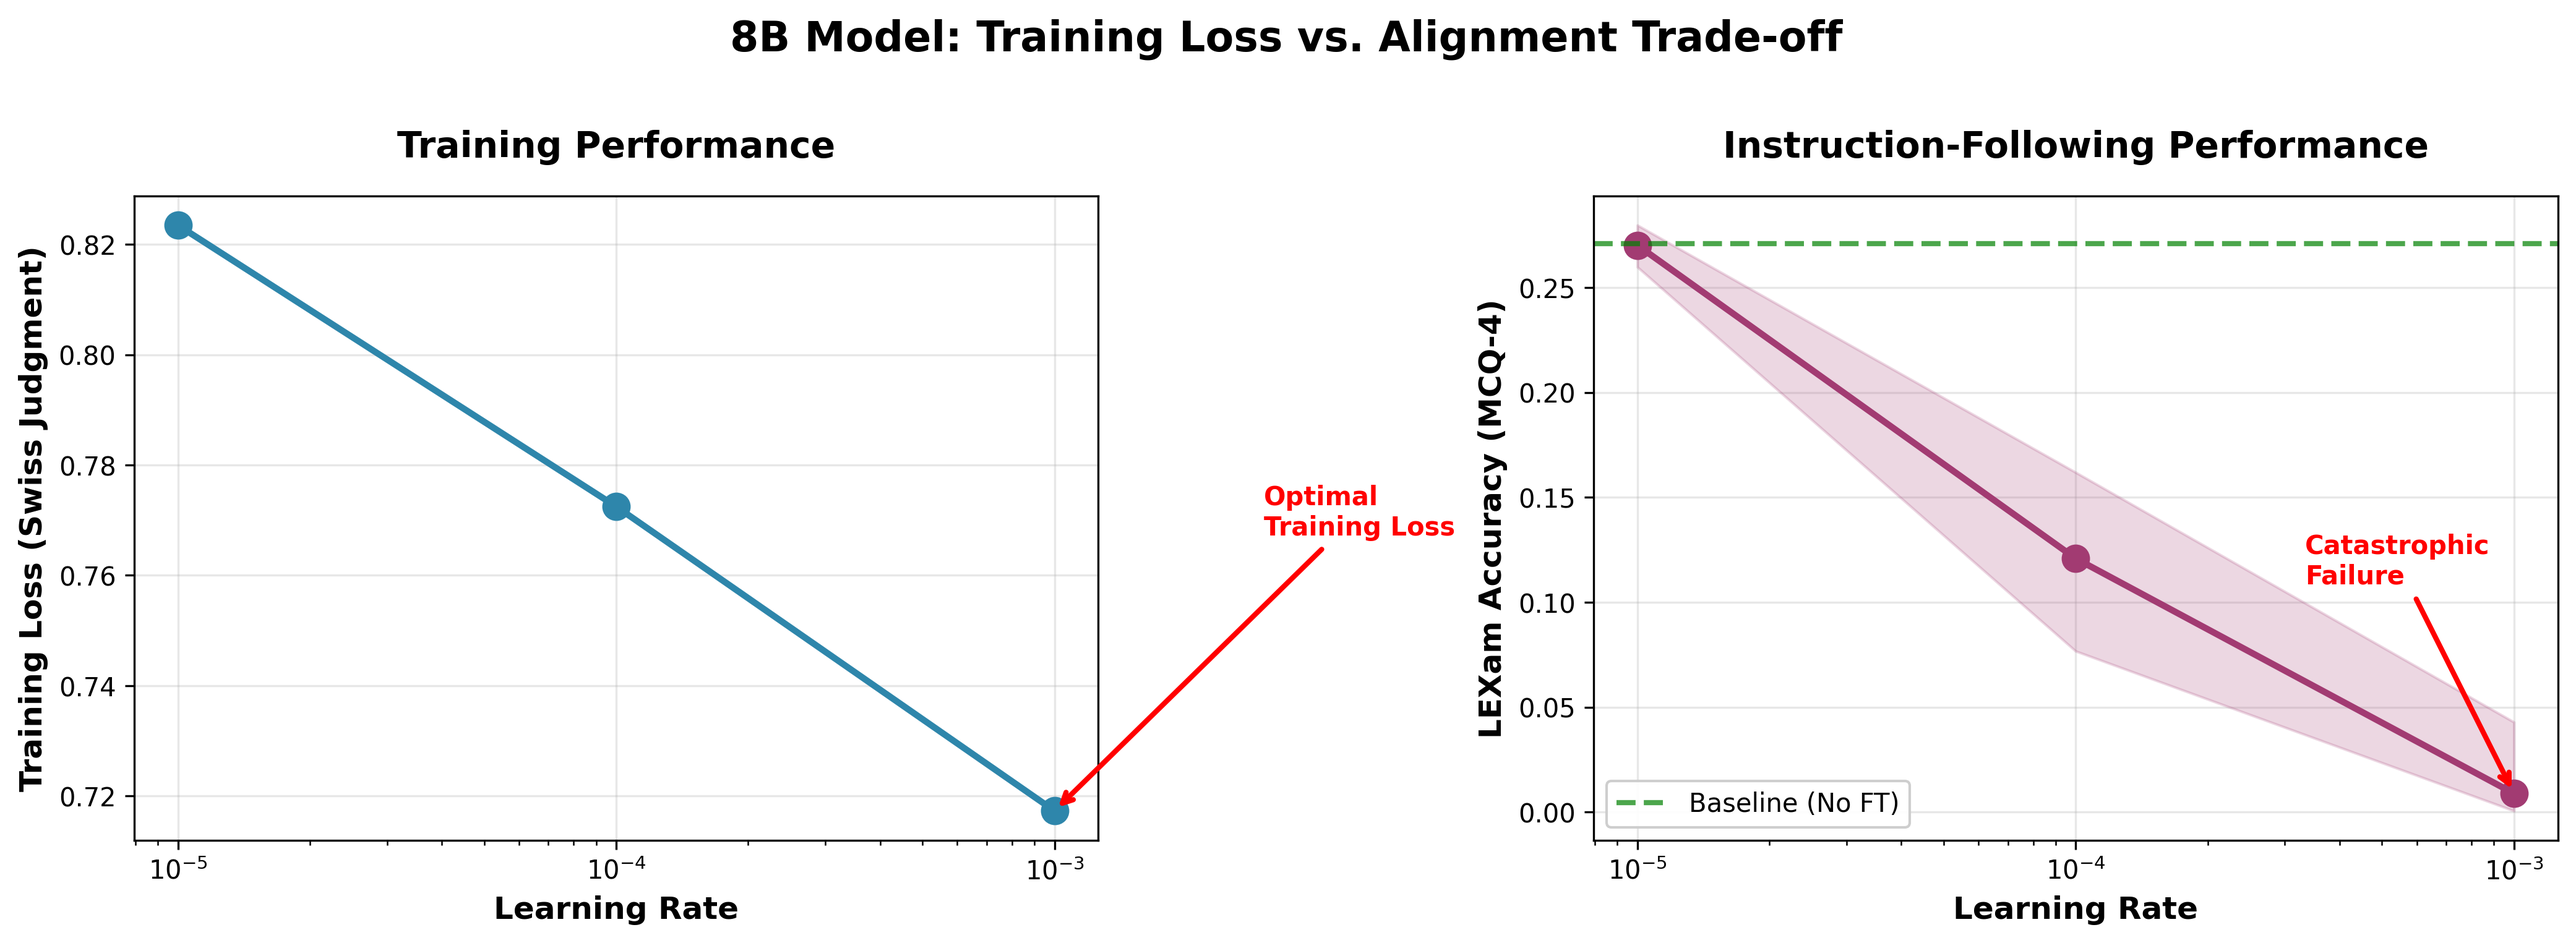
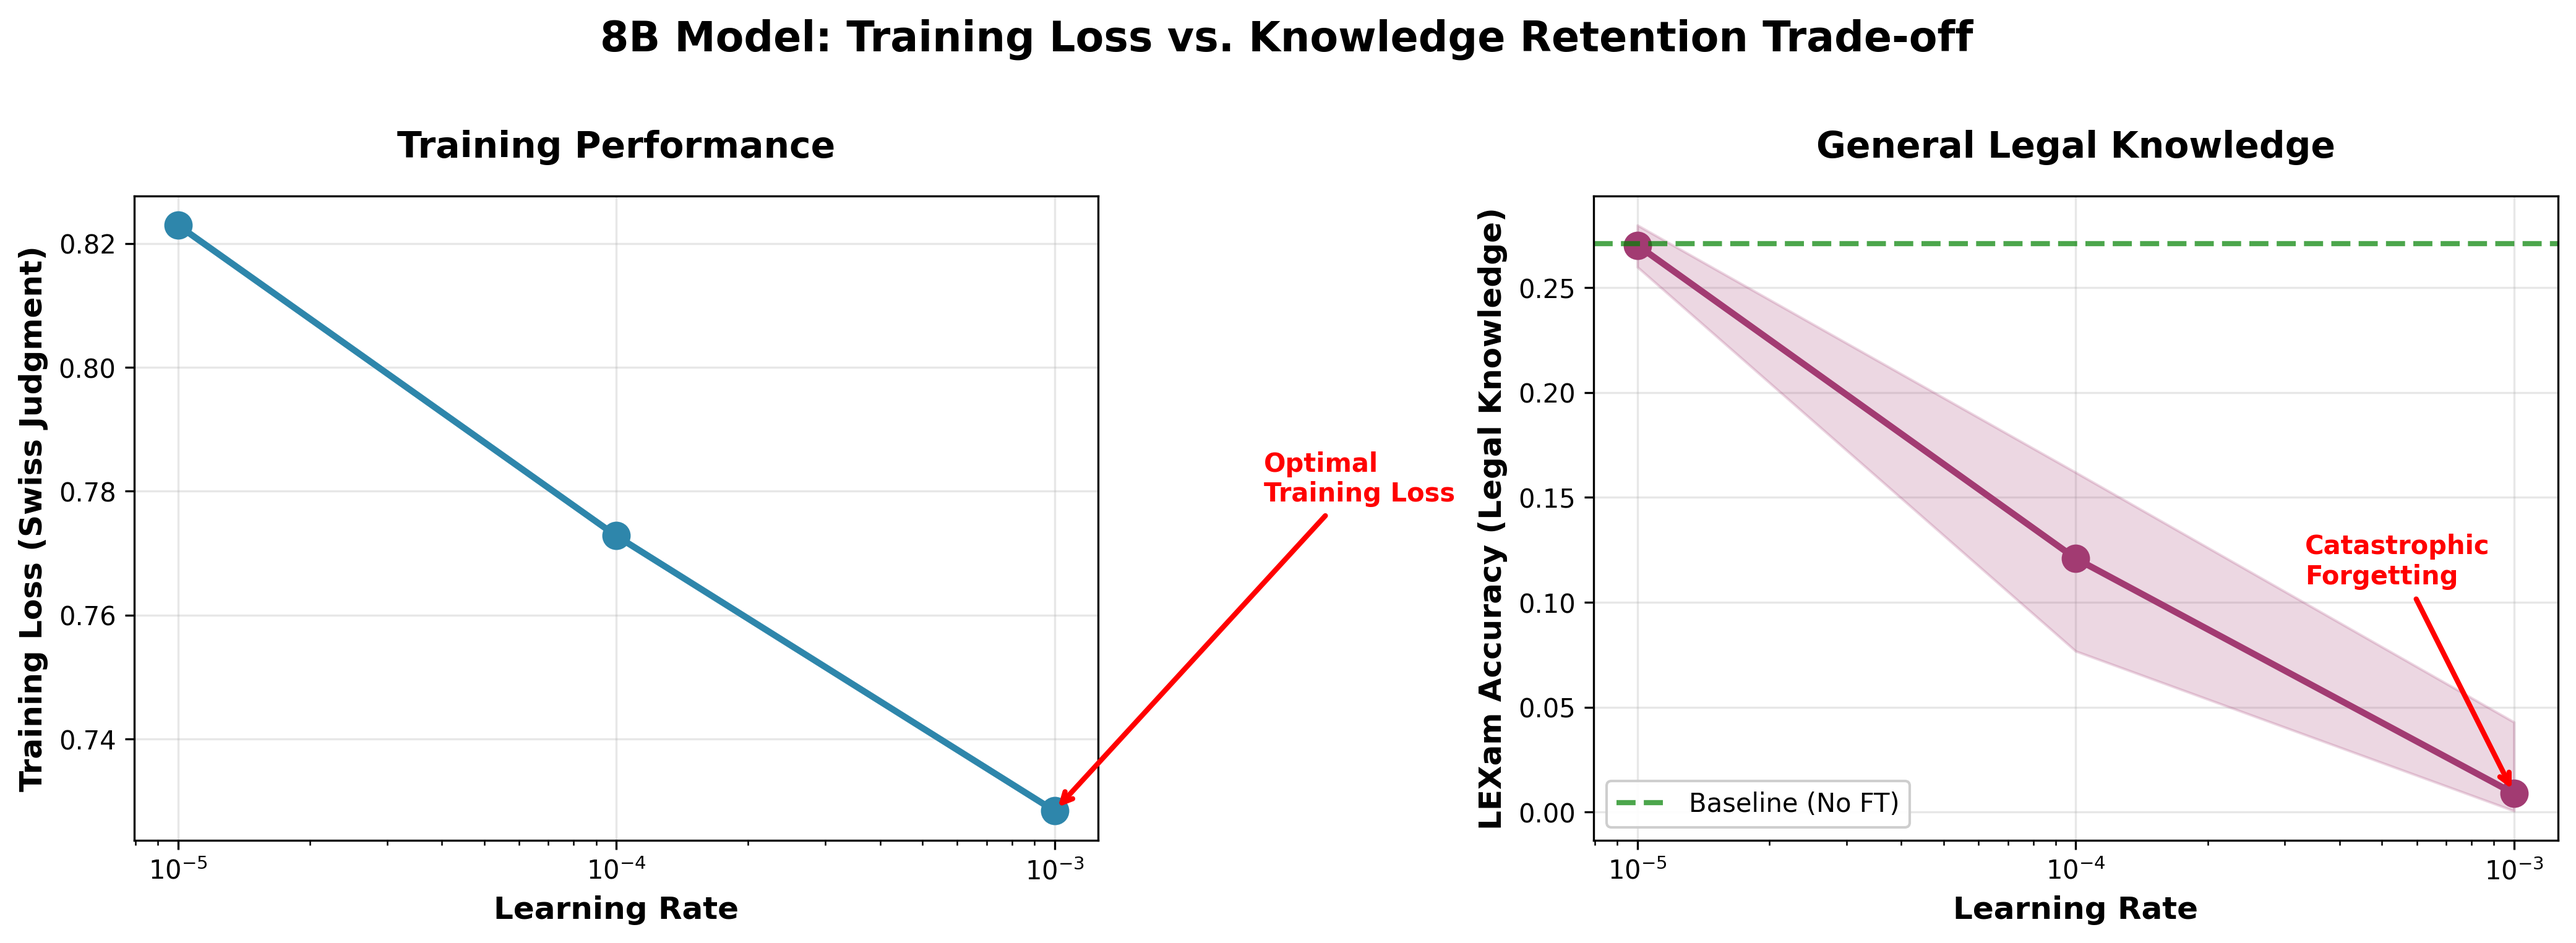
Fix terminology: Knowledge forgetting, not alignment breaking
Corrected the interpretation of LEXam results:
- LEXam tests LEGAL KNOWLEDGE, not instruction-following
- The degradation is CATASTROPHIC FORGETTING, not alignment breaking
- Updated all plots and documentation with correct terminology

Key changes:
- 'Instruction-Following Performance' → 'General Legal Knowledge'
- 'Alignment Breaking' → 'Knowledge Catastrophic Forgetting'
- 'Alignment Trade-off' → 'Knowledge Retention Trade-off'
- Updated plot labels and annotations
- Clarified that LEXam evaluates legal knowledge across domains

This is a more accurate characterization of the phenomenon.

diff --git a/report-ben/README-BEN.md b/report-ben/README-BEN.md
@@ -118,9 +118,9 @@ This project validates key findings from ["LoRA Without Regret"](https://thinkin
 
 ## LEXam Benchmark Evaluation
 
-**Critical Finding: Alignment Breaking at High Learning Rates**
+**Critical Finding: Knowledge Catastrophic Forgetting at High Learning Rates**
 
-Evaluation using lighteval framework (temperature=0, max_length=4096) on MCQ-4 (4-choice questions) from [LEXam Benchmark](https://github.com/LEXam-Benchmark/LEXam).
+Evaluation using lighteval framework (temperature=0, max_length=4096) on MCQ-4 (4-choice questions) from [LEXam Benchmark](https://github.com/LEXam-Benchmark/LEXam). LEXam tests legal knowledge across multiple domains, not just instruction-following.
 
 ### Baseline Performance (No Fine-Tuning)
 
@@ -143,18 +143,18 @@ Evaluation using lighteval framework (temperature=0, max_length=4096) on MCQ-4 (
 **Full FT at LR=1e-6 (Very Conservative):**
 - **8B Full FT**: 25.9% accuracy → **Maintains baseline** ✓
 
-### Analysis: The Training Loss vs. Alignment Trade-off
+### Analysis: The Training Loss vs. Knowledge Retention Trade-off
 
-![Alignment Trade-off](plots/alignment_tradeoff_8B.png)
-*Figure 5: Training loss vs. alignment trade-off for 8B model. Left: Lower LR achieves better training loss. Right: Same LR completely destroys instruction-following (LEXam accuracy drops from 27% to near 0%). The optimal training LR (1e-3) is catastrophic for general capabilities.*
+![Knowledge Retention Trade-off](plots/alignment_tradeoff_8B.png)
+*Figure 5: Training loss vs. knowledge retention trade-off for 8B model. Left: Lower LR achieves better training loss on Swiss Judgment task. Right: Same LR causes catastrophic forgetting of legal knowledge (LEXam accuracy drops from 27% to near 0%). The optimal training LR (1e-3) destroys general legal knowledge.*
 
-**Key Insight**: The learning rates that achieve optimal training loss (LR=1e-3) completely break instruction-following alignment. This reveals a critical trade-off:
+**Key Insight**: The learning rates that achieve optimal training loss (LR=1e-3) cause catastrophic forgetting of general legal knowledge. This reveals a critical trade-off:
 
 - **Low training loss ≠ Better model**
-- **Aggressive fine-tuning on domain data destroys general capabilities**
-- **Conservative LRs (1e-5, 1e-6) preserve alignment but sacrifice training performance**
+- **Aggressive fine-tuning on narrow domain data destroys broader knowledge**
+- **Conservative LRs (1e-5, 1e-6) preserve knowledge but sacrifice training performance**
 
-This finding contradicts the assumption that lower training loss indicates a better model. For practical deployment, **LR=1e-5 is the sweet spot** that balances Swiss legal task performance with maintained instruction-following.
+This finding contradicts the assumption that lower training loss indicates a better model. For practical deployment, **LR=1e-5 is the sweet spot** that balances Swiss legal task performance with maintained general legal knowledge.
 
 ---
 

diff --git a/report-ben/ALIGNMENT_INVESTIGATION.md b/report-ben/ALIGNMENT_INVESTIGATION.md
@@ -1,7 +1,7 @@
-# Alignment Breaking Investigation
+# Knowledge Catastrophic Forgetting Investigation
 
 ## Question
-Is the catastrophic alignment breaking at LR=1e-3 real, or is it an artifact/error?
+Is the catastrophic forgetting of legal knowledge at LR=1e-3 real, or is it an artifact/error?
 
 ## Investigation Methods
 
@@ -44,23 +44,25 @@ Is the catastrophic alignment breaking at LR=1e-3 real, or is it an artifact/err
 
 **The result is REAL, not an artifact.**
 
-The learning rate that optimizes training loss on Swiss legal data (LR=1e-3) completely destroys the model's ability to follow instructions on general tasks. This is a critical finding about the trade-off between domain-specific optimization and general capabilities.
+The learning rate that optimizes training loss on Swiss Judgment Prediction (LR=1e-3) causes catastrophic forgetting of general legal knowledge. This is a critical finding about the trade-off between narrow task optimization and broader knowledge retention.
 
 ### Hypothesis
 
-At LR=1e-3, the model is overfitting so aggressively to the Swiss legal task that it:
-1. Loses its instruction-following capabilities
-2. Becomes unable to parse MCQ question formats
-3. May be outputting Swiss legal text regardless of input
+At LR=1e-3, the model is overfitting so aggressively to the Swiss Judgment task that it:
+1. Forgets general legal knowledge tested by LEXam
+2. Becomes unable to apply legal reasoning to other contexts
+3. May be memorizing Swiss-specific patterns at the expense of broader understanding
+
+**Note**: LEXam tests legal knowledge across multiple domains (MCQ questions), not instruction-following ability. The degradation represents **catastrophic forgetting** of legal knowledge, not alignment breaking.
 
 This suggests that **training loss is not a reliable metric** for model quality when fine-tuning on narrow domains.
 
 ### Practical Recommendation
 
 For Swiss legal fine-tuning:
-- **Use LR=1e-5** to maintain general capabilities
-- **Monitor held-out task performance**, not just training loss
-- **Consider multi-task training** to preserve general abilities
+- **Use LR=1e-5** to maintain general legal knowledge
+- **Monitor held-out knowledge benchmarks**, not just training loss
+- **Consider multi-task training** to preserve broader legal understanding
 
 ## Supporting Evidence
 
